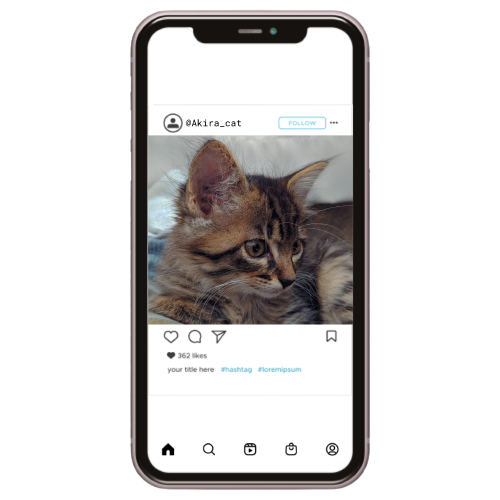
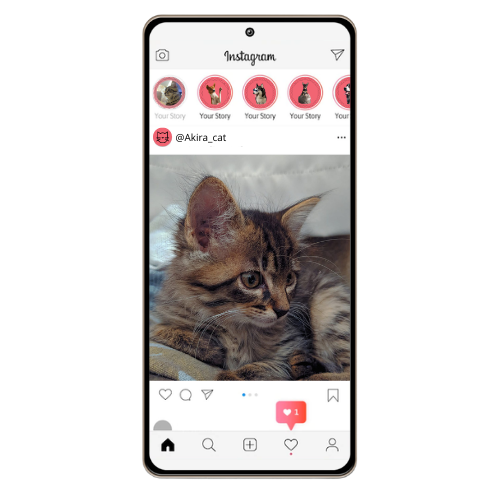
Mudando a imagem do petgram

Changed region(s): [[0.24, 0.0, 0.75, 0.99], [0.39, 0.87, 0.45, 0.9]]

diff --git a/estilo.css b/estilo.css
@@ -34,7 +34,7 @@ body {
 }
 
 .petgram-phone img{
-    height: 42rem;
+    height: 45rem;
 }
 
 .petgram-continue {
